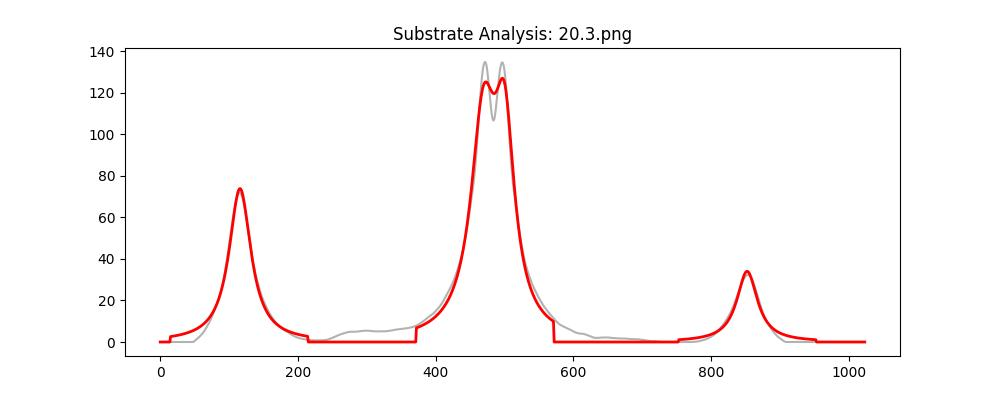
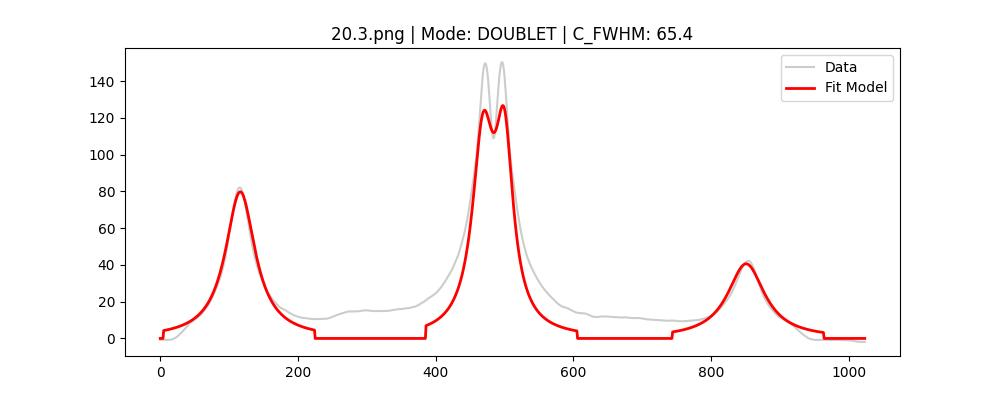
monday 3 draft version

diff --git a/src/analysis/substrateanalyzer.py b/src/analysis/substrateanalyzer.py
@@ -6,12 +6,16 @@ import matplotlib.pyplot as plt
 from scipy.signal import find_peaks, savgol_filter
 from scipy.optimize import curve_fit
 
-# --- PATHS ---
+# --- USER CONFIGURATION ---
+# These are the specific file prefixes that require the Double-Lorentzian fit
+DOUBLET_FILES = [11, 13, 14, 16, 17, 19, 20, 21, 25, 26, 28, 31]
+
 INPUT_DIR = "data/raw/mbesubstrate"
 OUTPUT_DIR = "data/processed/physics_analysis/substrate"
 DIAG_DIR = os.path.join(OUTPUT_DIR, "diagnostics")
 
 
+# --- MODELS ---
 def lorentzian(x, amp, ctr, hwhm):
     return amp * hwhm**2 / ((x - ctr) ** 2 + hwhm**2)
 
@@ -25,61 +29,72 @@ def process_substrate(path):
     if img is None:
         return None
     img = cv2.resize(img, (1024, 1024))
+    filename = os.path.basename(path)
 
-    # Aggressive background removal for high-contrast substrates
+    # Precise parsing for "11.3.png" -> 11
+    try:
+        file_num = int(filename.split(".")[0])
+    except:
+        file_num = -1
+
     profile = np.mean(img[480:540, :], axis=0)
-    smoothed = savgol_filter(profile, 31, 3)
-    clean_y = np.maximum(smoothed - np.percentile(smoothed, 20), 0)
+    smoothed = savgol_filter(profile, 25, 3)
 
-    # Find widely spaced peaks (min distance 150px)
-    peaks, props = find_peaks(clean_y, height=np.max(clean_y) * 0.15, distance=150)
-    if len(peaks) < 1:
-        return None
-    best_peaks = sorted(peaks[np.argsort(props["peak_heights"])[-3:]])
+    # Catch peaks using prominence to handle background noise
+    peaks, props = find_peaks(smoothed, prominence=8, distance=150)
+    if len(peaks) < 3:
+        peaks = np.argsort(smoothed)[-3:]
+
+    best_peaks = sorted(peaks[np.argsort(smoothed[peaks])[-3:]])
     center_idx = np.argmin(np.abs(np.array(best_peaks) - 512))
 
     x = np.arange(1024)
     visual_fit = np.zeros(1024)
-    res = {"fwhm_L": 0, "fwhm_C": 0, "fwhm_R": 0}
+    res = {"filename": filename, "fwhm_L": 0.0, "fwhm_C": 0.0, "fwhm_R": 0.0}
 
     for i, p_loc in enumerate(best_peaks):
-        win = 100
+        win = 110
         idx = np.arange(max(0, p_loc - win), min(1024, p_loc + win))
-        x_loc, y_loc = x[idx], clean_y[idx]
+        x_loc = x[idx]
+        y_loc = smoothed[idx] - np.min(smoothed[idx])  # Local baseline correction
 
         try:
-            if i == center_idx:
-                p0 = [np.max(y_loc), p_loc - 15, 10, np.max(y_loc), p_loc + 15, 10]
-                popt, _ = curve_fit(double_lorentzian, x_loc, y_loc, p0=p0)
+            # Force doublet logic for your specific list
+            if i == center_idx and file_num in DOUBLET_FILES:
+                p0 = [np.max(y_loc), p_loc - 12, 8, np.max(y_loc), p_loc + 12, 8]
+                popt, _ = curve_fit(double_lorentzian, x_loc, y_loc, p0=p0, maxfev=5000)
                 visual_fit[idx] = double_lorentzian(x_loc, *popt)
                 res["fwhm_C"] = abs(popt[1] - popt[4]) + (abs(popt[2]) + abs(popt[5]))
             else:
-                p0 = [np.max(y_loc), p_loc, 15]
-                popt, _ = curve_fit(lorentzian, x_loc, y_loc, p0=p0)
+                p0 = [np.max(y_loc), p_loc, 10]
+                popt, _ = curve_fit(lorentzian, x_loc, y_loc, p0=p0, maxfev=3000)
                 visual_fit[idx] = lorentzian(x_loc, *popt)
-                key = "fwhm_L" if i < center_idx else "fwhm_R"
+                key = ["fwhm_L", "fwhm_C", "fwhm_R"][i]
                 res[key] = abs(popt[2] * 2)
         except:
             continue
 
+    # Diagnostic output
     plt.figure(figsize=(10, 4))
-    plt.plot(clean_y, "k", alpha=0.3, label="Data")
-    plt.plot(visual_fit, "r", lw=2, label="Doublet/Singlet Model")
-    plt.title(f"Substrate Analysis: {os.path.basename(path)}")
-    plt.savefig(os.path.join(DIAG_DIR, f"diag_{os.path.basename(path)}.jpg"))
+    plt.plot(
+        x, smoothed - np.percentile(smoothed, 10), color="gray", alpha=0.4, label="Data"
+    )
+    plt.plot(x, visual_fit, color="red", lw=2, label="Fit Model")
+    mode_label = "DOUBLET" if file_num in DOUBLET_FILES else "STANDARD"
+    plt.title(f"{filename} | Mode: {mode_label} | C_FWHM: {res['fwhm_C']:.1f}")
+    plt.legend()
+    plt.savefig(os.path.join(DIAG_DIR, f"diag_{filename}.jpg"))
     plt.close()
 
-    return {"filename": os.path.basename(path), **res}
+    return res
 
 
 if __name__ == "__main__":
     os.makedirs(DIAG_DIR, exist_ok=True)
-    results = [
-        process_substrate(os.path.join(INPUT_DIR, f))
-        for f in os.listdir(INPUT_DIR)
-        if ".3" in f
-    ]
+    all_files = [f for f in os.listdir(INPUT_DIR) if f.lower().endswith(".png")]
+    results = [process_substrate(os.path.join(INPUT_DIR, f)) for f in all_files]
+
     pd.DataFrame([r for r in results if r]).to_csv(
-        os.path.join(OUTPUT_DIR, "substrate_results.csv"), index=False
+        os.path.join(OUTPUT_DIR, "substrate_results_final.csv"), index=False
     )
-    print(f"Substrate logic complete. Images in {DIAG_DIR}")
+    print(f"Finished. Diagnostics saved to {DIAG_DIR}")
